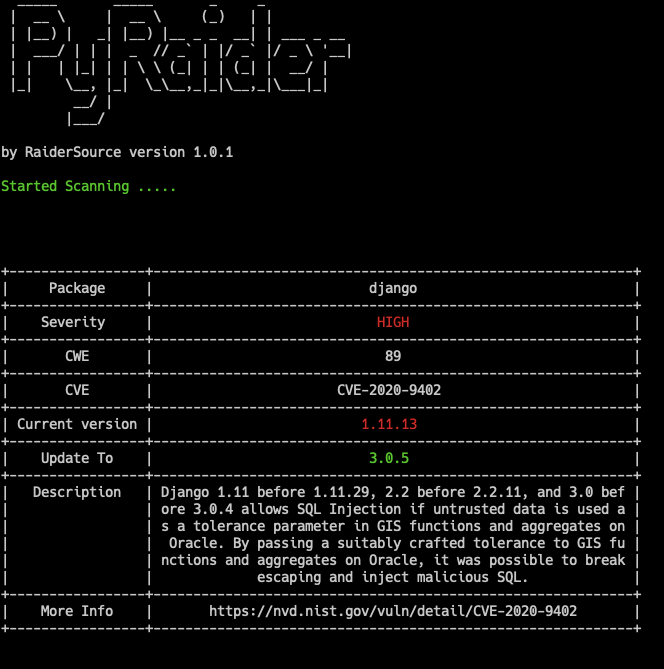
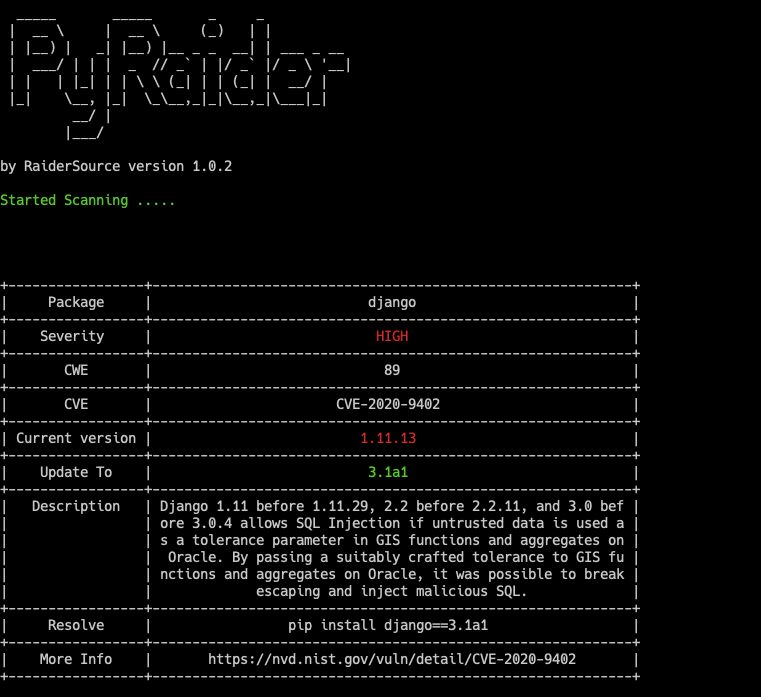
Updated README file and alos updated the version tag

diff --git a/pyraider/cli.py b/pyraider/cli.py
@@ -5,8 +5,7 @@ Usage:
   pyraider validate [-p <package> | -f <filename>]
   pyraider fix
   pyraider autofix
-  pyraider updatedb
-  pyraider updatedb -d
+  pyraider updatedb [-d]
 
 Examples:
   pyraider go
@@ -45,7 +44,7 @@ logo = """
          __/ |
         |___/
 
-by RaiderSource version 1.0.1
+by RaiderSource version 1.0.2
 """
 
 
@@ -60,8 +59,7 @@ def find_file(name, path):
 
 def main():
     print(logo)
-    arguments = docopt(__doc__, version='1.0.1')
-    print("arguments", arguments)
+    arguments = docopt(__doc__, version='1.0.2')
     if arguments.get('check'):
         if arguments.get('high'):
             if arguments.get('<filename>') and not arguments.get('<exportFileName>') and not arguments.get('<format>') and not arguments.get('-d'):
@@ -207,16 +205,17 @@ def main():
                 auto_fix_all_packages()
         except Exception as e:
             exit(1)
-    if arguments.get('updatedb') and arguments.get('-d'):
-        try:
-            update_db(deep_scan=True)
-        except Exception as e:
-            exit(1)
-    if arguments.get('updatedb') and not arguments.get('-d'):
-        try:
-            update_db()
-        except Exception as e:
-            exit(1)
+    if arguments.get('updatedb'):
+        if arguments.get('-d'):
+            try:
+                update_db(deep_scan=True)
+            except Exception as e:
+                exit(1)
+        else:
+            try:
+                update_db()
+            except Exception as e:
+                exit(1)
 
 
 if __name__ == "__main__":

diff --git a/tests/test_pyraider.py b/tests/test_pyraider.py
@@ -1,0 +1,26 @@
+import unittest
+from docopt import docopt
+from pyraider import cli
+
+doc = cli.__doc__
+
+class TestCLI(unittest.TestCase):
+    def test_go(self):
+        args = docopt(doc,["go"])
+        self.assertEqual(args["go"], True)
+    
+    def test_validate(self):
+        args = docopt(doc,["validate"])
+        self.assertEqual(args["validate"], True)
+        
+    def test_fix(self):
+        args = docopt(doc,["fix"])
+        self.assertEqual(args["fix"], True)
+    
+    def test_autofix(self):
+        args = docopt(doc,["autofix"])
+        self.assertEqual(args["autofix"], True)
+    
+
+if __name__ == '__main__':
+    unittest.main()

diff --git a/pyraider/utils.py b/pyraider/utils.py
@@ -547,7 +547,7 @@ def query_yes_no(question, default="yes"):
         raise ValueError("invalid default answer: {0}".format(default))
     while True:
         sys.stdout.write(question + prompt)
-        choice = input().lower()
+        choice = raw_input().lower()
         if default is not None and choice == '':
             return valid[default]
         elif choice in valid:

diff --git a/pyraider/main_pyraider.py b/pyraider/main_pyraider.py
@@ -92,7 +92,7 @@ def read_from_file(to_scan_file, export_format=None, export_file_path=None, deep
     data_dict = {}
     secure_data_dict = []
     data_dict['pyraider'] = []
-    data_dict['version'] = '1.0.1'
+    data_dict['version'] = '1.0.2'
     vul_package_count = 0
     filename, file_extension = os.path.splitext(to_scan_file)
     if deep_scan:

diff --git a/README.md b/README.md
@@ -2,19 +2,33 @@
 
 > Using PyRaider You can scan installed dependencies known security vulnerabilities. It uses publicly known exploits, vulnerabilities database. [Documentation](https://pyraider.raidersource.com)
 
-**Latest Version: 1.0.1**
+**Latest Version: 1.0.2**
+
 **Note: Currently pyraider support above `python3` version.**
+
 ![pyraider](img/pyraider_scan.png)
 
                                     
 ## Usage
 
+# Table of Contents
+1. [Installation](https://pyraider.raidersource.com/#/Installation)
+2. [Scan Pakage](https://pyraider.raidersource.com/Scan?id=scan-python-packages)
+2. [Scan Package by Severity](https://pyraider.raidersource.com/Scan?id=scan-packages-by-severity)
+3. [Report](https://pyraider.raidersource.com/#/Report)
+3. [CI/CD](https://pyraider.raidersource.com/#/CICD)
+4. [Outdated package check](https://pyraider.raidersource.com/#/Validate)
+
 [Documentation](https://pyraider.raidersource.com/#/)
 
-### Install `pyraider` using pip
+### Install `pyraider` using `pip` or `pyenv`
 
 ```commandline
 pip install pyraider
+```
+
+```commandline
+pyenv install pyraider
 ```
 
 ### To check the list of options available.
@@ -22,19 +36,6 @@ pip install pyraider
 ```commandline
 pyraider -h
 ```
-
-### `pyraider -v` to check the version.
-
-```commandline
-pyraider -v
-```
-* Now `PyRaider` supports two types of scans.
-    * Light scan
-        * It is faster and it checks against only the latest CVE database vulnerabilities.
-        * Default it will use `Light Scan`.
-    * Deep Scan
-        * This may take some time to download the first time. It will scan against all the CVE database vulnerabilities.
-        * If you want to use `Deep Scan` need to add `-d` command. It will automatically scans against all the CVE database vulnerabilities.
 
 ##  Scan Vulnerabilities against the dependencies
 > Using PyRaider you can scan the vulnerable packages.
@@ -46,15 +47,6 @@ pyraider -v
 pyraider go
 ```
 
-* To Run Deep Sca
-
-```commandline
-pyraider go -d
-```
-
-**Note: If you are running this command the first time. The resource database will be downloaded. It may take some time to download. This will be downloaded only once. It won't download every time.**
-
-
 ### If you want to scan you packages against `requirements.txt` or `Pipfile.lock` file.
 
 ```commandline
@@ -64,24 +56,6 @@ pyraider check -f /Users/raider/project/requirements.txt
 ```commandline
 pyraider check -f /Users/raider/project/Pipfile.lock
 ```
-
-* To Run Deep Scan
-
-```commandline
-pyraider check -d -f /Users/raider/project/requirements.txt
-```
-
-```commandline
-pyraider check -d -f /Users/raider/project/Pipfile.lock
-```
-
-### If you want to scan the packages in the same directory.
-
-```commandline
-pyraider check -f .
-```
-
-**Note: If you are running this command the first time. The resource database will be downloaded. It may take some time to download. This will be downloaded only once. It won't download every time.**
 
 ## Reports
 > PyRaider currently supports `JSON`, `HTML` and `CSV` formats.
@@ -131,7 +105,7 @@ pyraider validate -f /Users/raider/project/Pipfile.lock
 
 * It will check out of dated packages on the actiavted virtual environment.
 ```commandline
-pyraider validate 
+pyraider validate -p django==1.11.13
 ```
 
 
@@ -160,13 +134,6 @@ pyraider autofix
 ```
 pyraider updatedb
 ```
-* To Update `Deep Scan` database  
-
-```
-pyraider updatedb -d
-```
-
-**Note: It may take some time to download.**
 
 ## Docker container
 > You can also run `pyraider` has a docker container.
